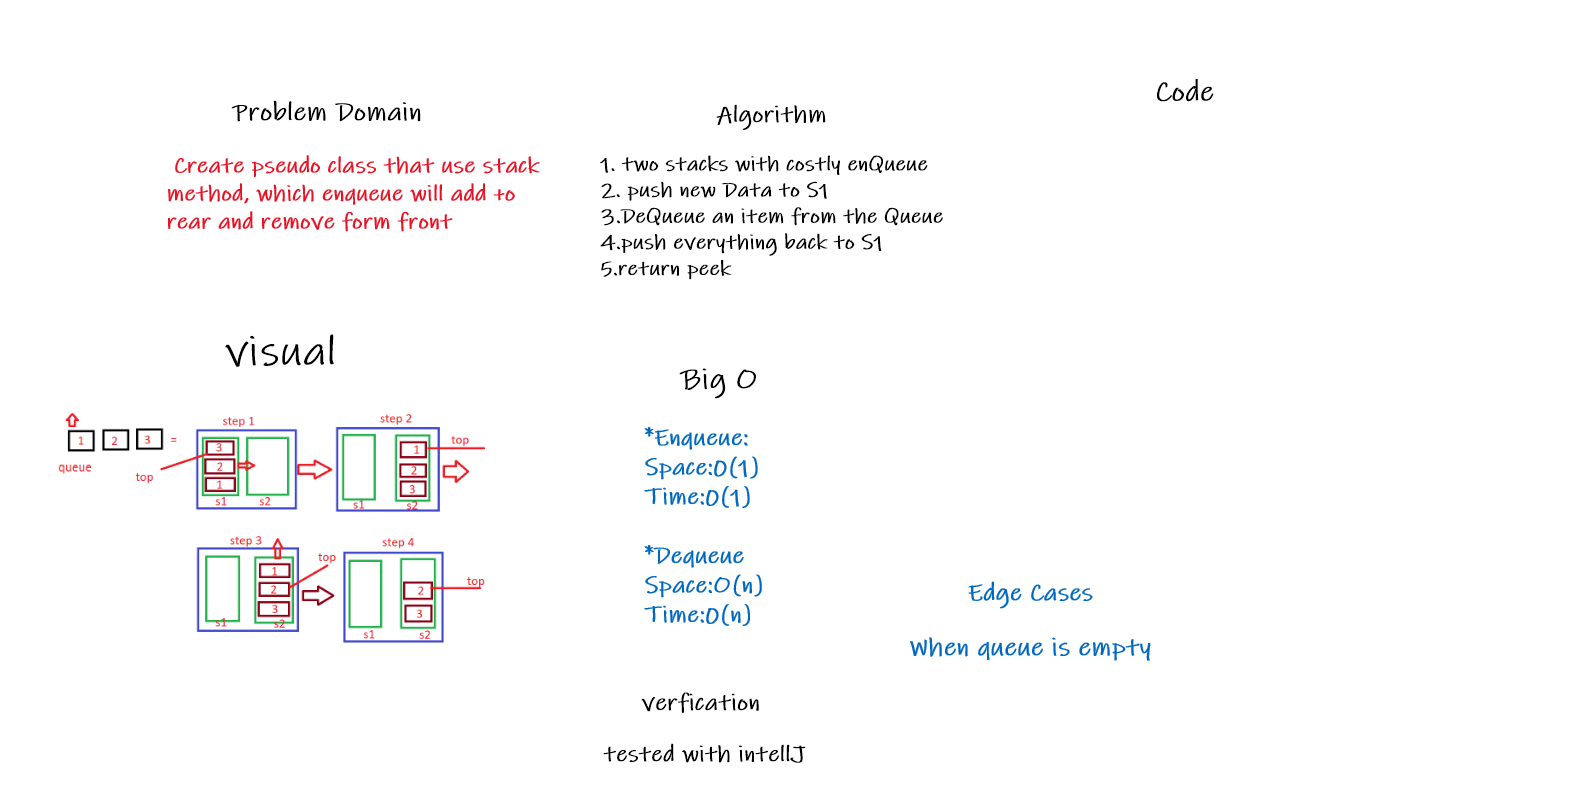
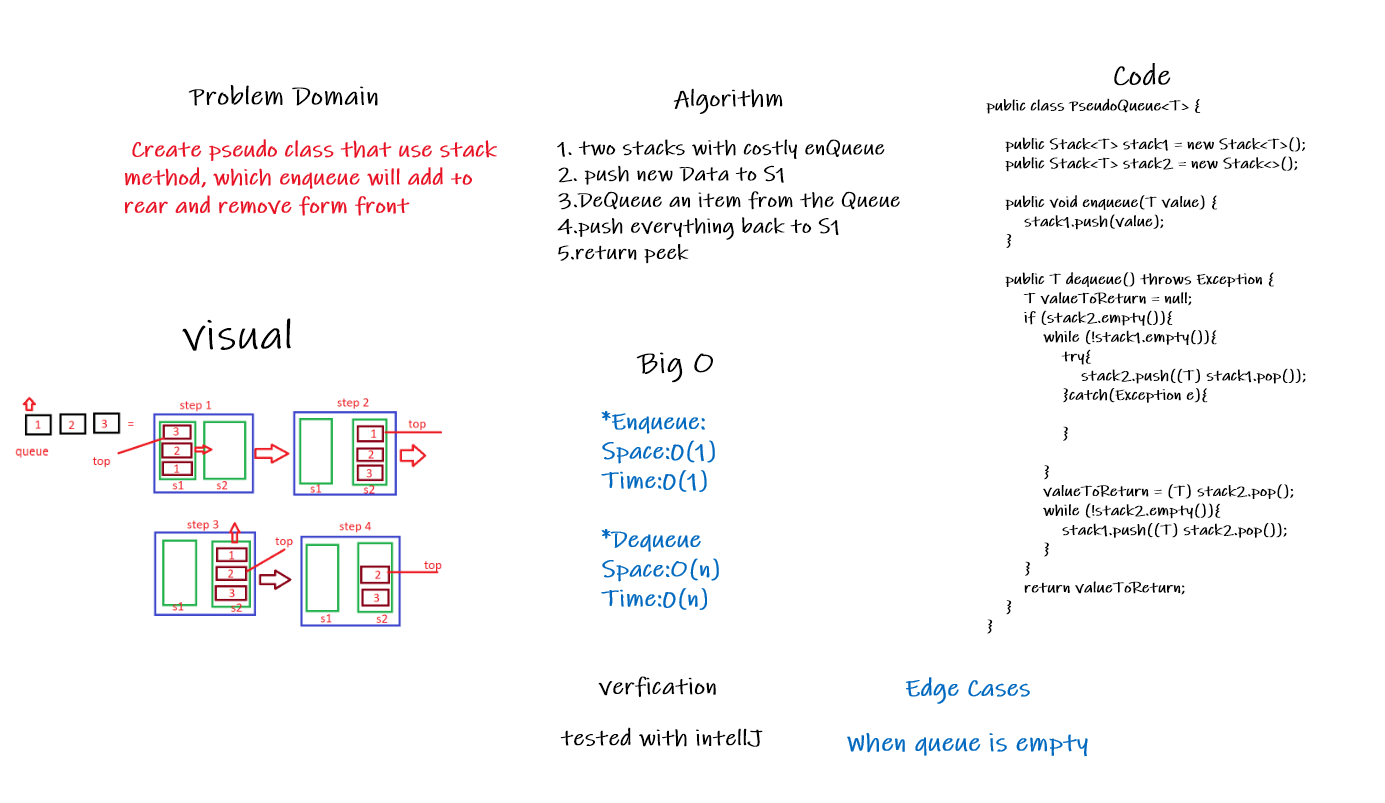
done

diff --git a/stack-and-queue/lib/src/main/java/stack/and/queue/PseudoQueue.java b/stack-and-queue/lib/src/main/java/stack/and/queue/PseudoQueue.java
@@ -1,8 +1,30 @@
 package stack.and.queue;
 
-public class PseudoQueue {
+public class PseudoQueue<T> {
 
+    public Stack<T> stack1 = new Stack<T>();
+    public Stack<T> stack2 = new Stack<>();
 
+    public void enqueue(T value) {
+        stack1.push(value);
+    }
 
+    public T dequeue() throws Exception {
+        T valueToReturn = null;
+        if (stack2.empty()){
+            while (!stack1.empty()){
+                try{
+                    stack2.push((T) stack1.pop());
+                }catch(Exception e){
 
+                }
+
+            }
+            valueToReturn = (T) stack2.pop();
+            while (!stack2.empty()){
+                stack1.push((T) stack2.pop());
+            }
+        }
+        return valueToReturn;
+    }
 }

diff --git a/stack-and-queue/lib/src/main/java/stack/and/queue/Library.java b/stack-and-queue/lib/src/main/java/stack/and/queue/Library.java
@@ -34,7 +34,19 @@ public class Library {
         System.out.println(queue.dequeue());
         System.out.println(queue.peek());
 
+        System.out.println("the Pseudo code: ");
 
+        PseudoQueue test = new PseudoQueue();
+        test.enqueue(9);
+        test.enqueue(8);
+        test.enqueue(7);
+        test.enqueue(6);
+        test.enqueue(5);
+        test.dequeue();
+        test.enqueue(12);
+        test.dequeue();
+        test.dequeue();
+        System.out.println(test.stack1.toString());
 
 
 

diff --git a/stack-and-queue/lib/src/main/java/stack/and/queue/Stack.java b/stack-and-queue/lib/src/main/java/stack/and/queue/Stack.java
@@ -58,4 +58,6 @@ public class Stack <T> {
         str = str + "NUll";
         return str;
     }
+
+
 }

diff --git a/stack-and-queue/lib/src/main/java/stack/and/queue/Queue.java b/stack-and-queue/lib/src/main/java/stack/and/queue/Queue.java
@@ -70,4 +70,6 @@ class Queue<T> {
         return false;
     }
 
+
+
 }

diff --git a/stack-and-queue/stack.md b/stack-and-queue/stack.md
@@ -64,7 +64,36 @@ dequeue
 Space : O(n)
 Time : O(n)
 
-## Solution
+## Solution:
+
+`public class PseudoQueue<T> {
+
+    public Stack<T> stack1 = new Stack<T>();
+    public Stack<T> stack2 = new Stack<>();
+
+    public void enqueue(T value) {
+        stack1.push(value);
+    }
+
+    public T dequeue() throws Exception {
+        T valueToReturn = null;
+        if (stack2.empty()){
+            while (!stack1.empty()){
+                try{
+                    stack2.push((T) stack1.pop());
+                }catch(Exception e){
+
+                }
+
+            }
+            valueToReturn = (T) stack2.pop();
+            while (!stack2.empty()){
+                stack1.push((T) stack2.pop());
+            }
+        }
+        return valueToReturn;
+    }
+}`
 
 
 
